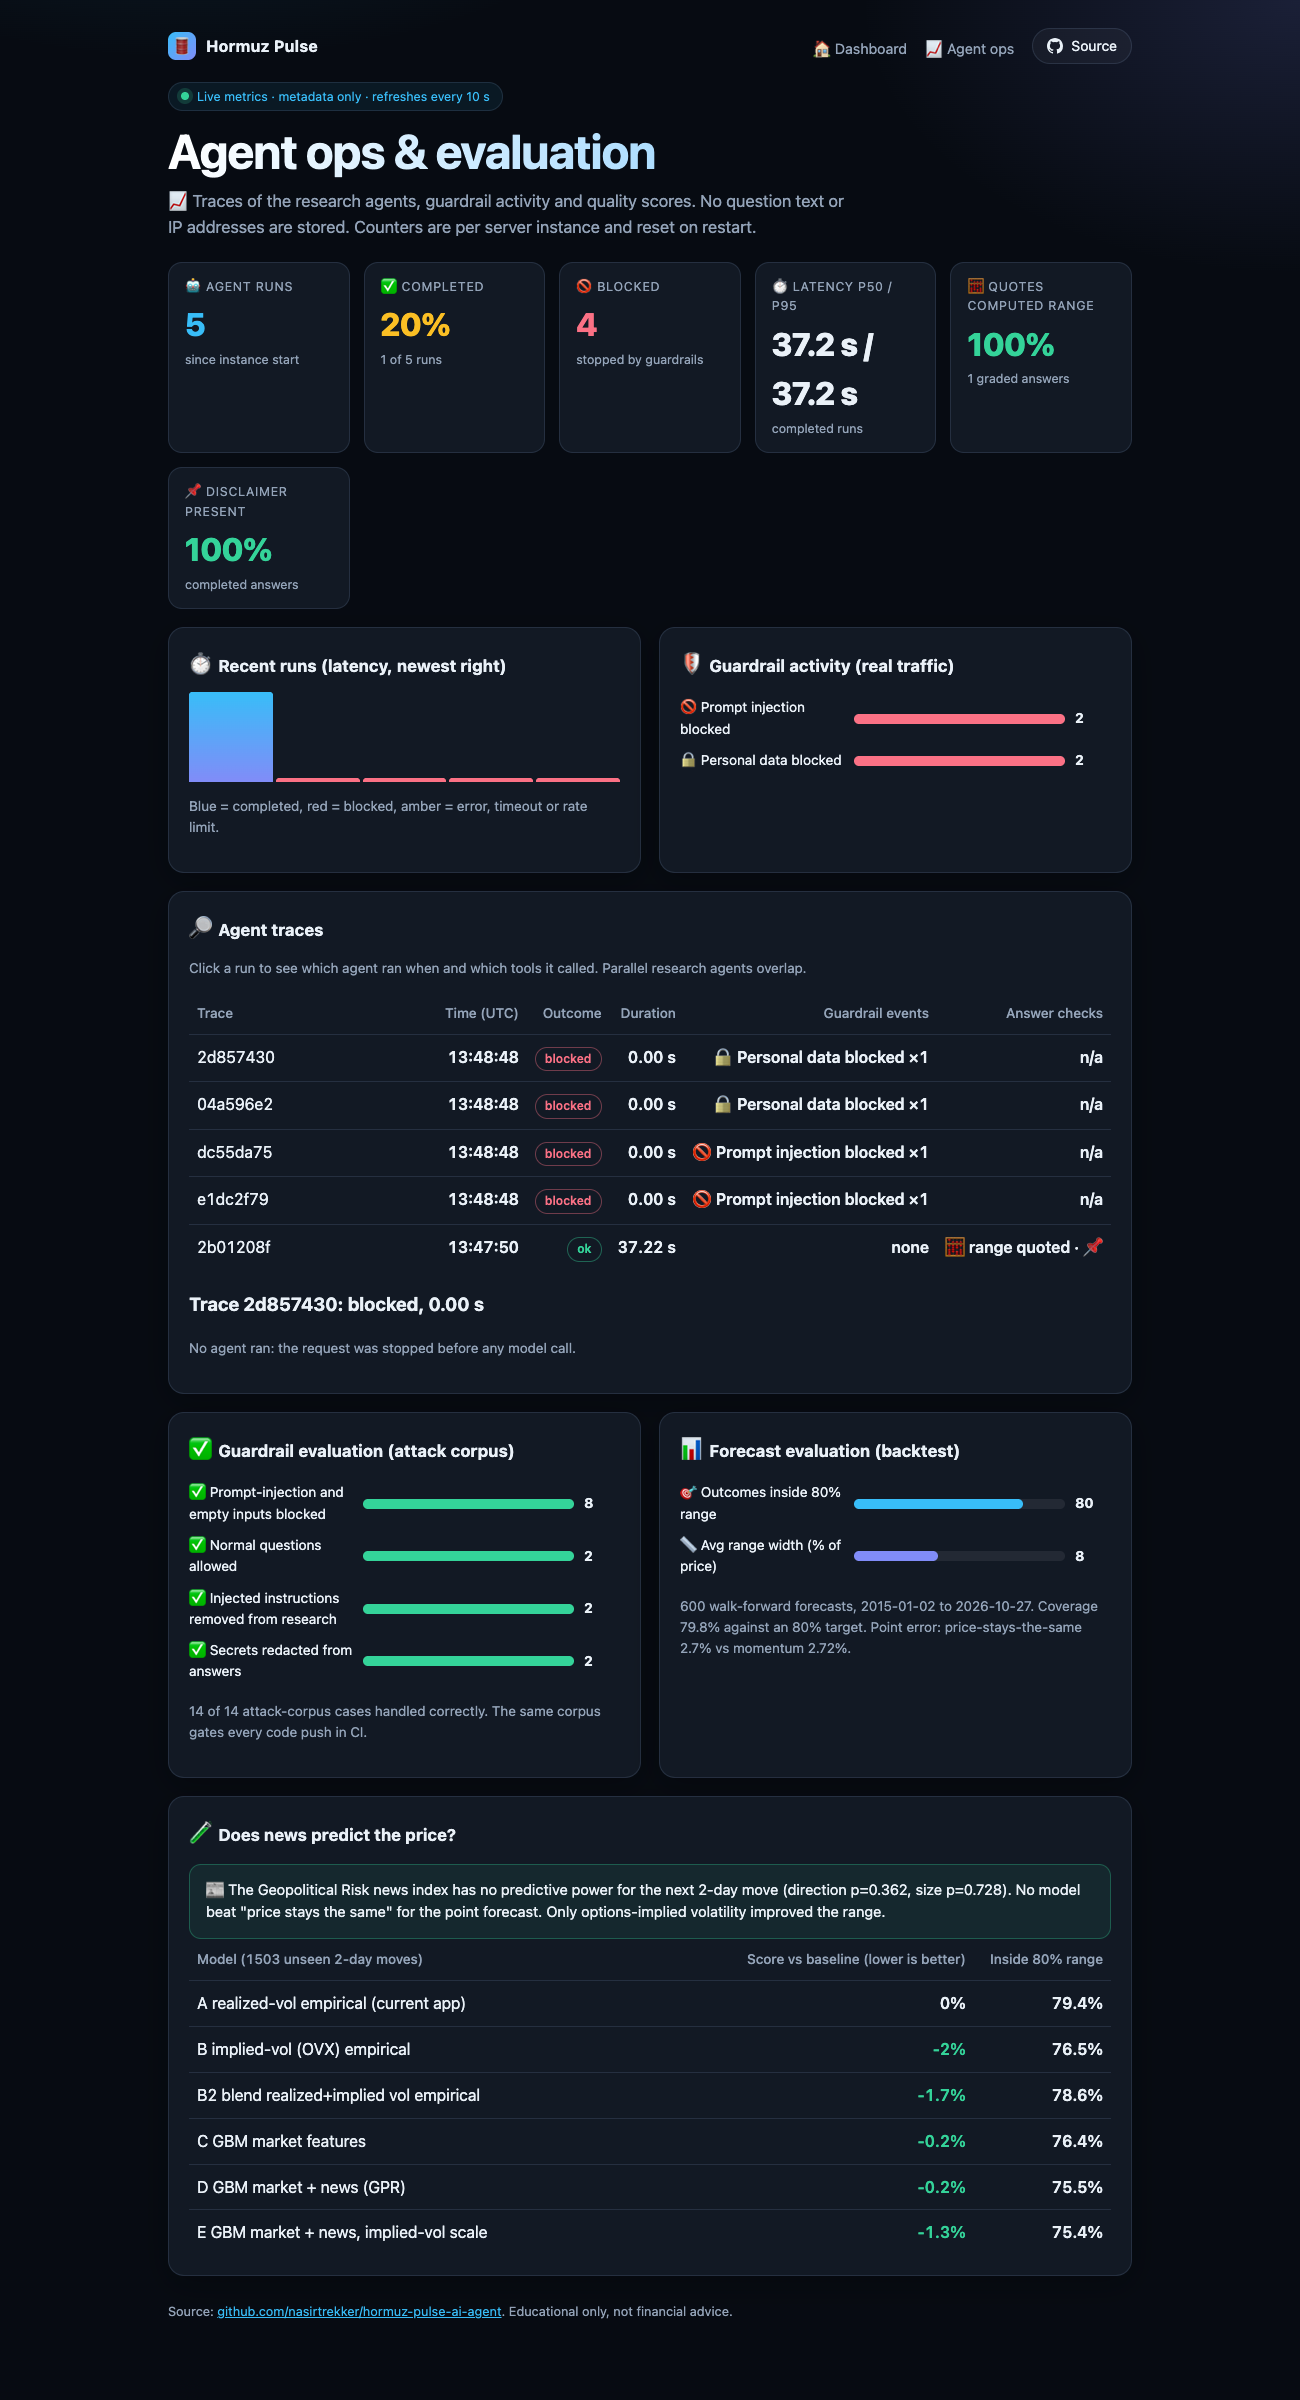
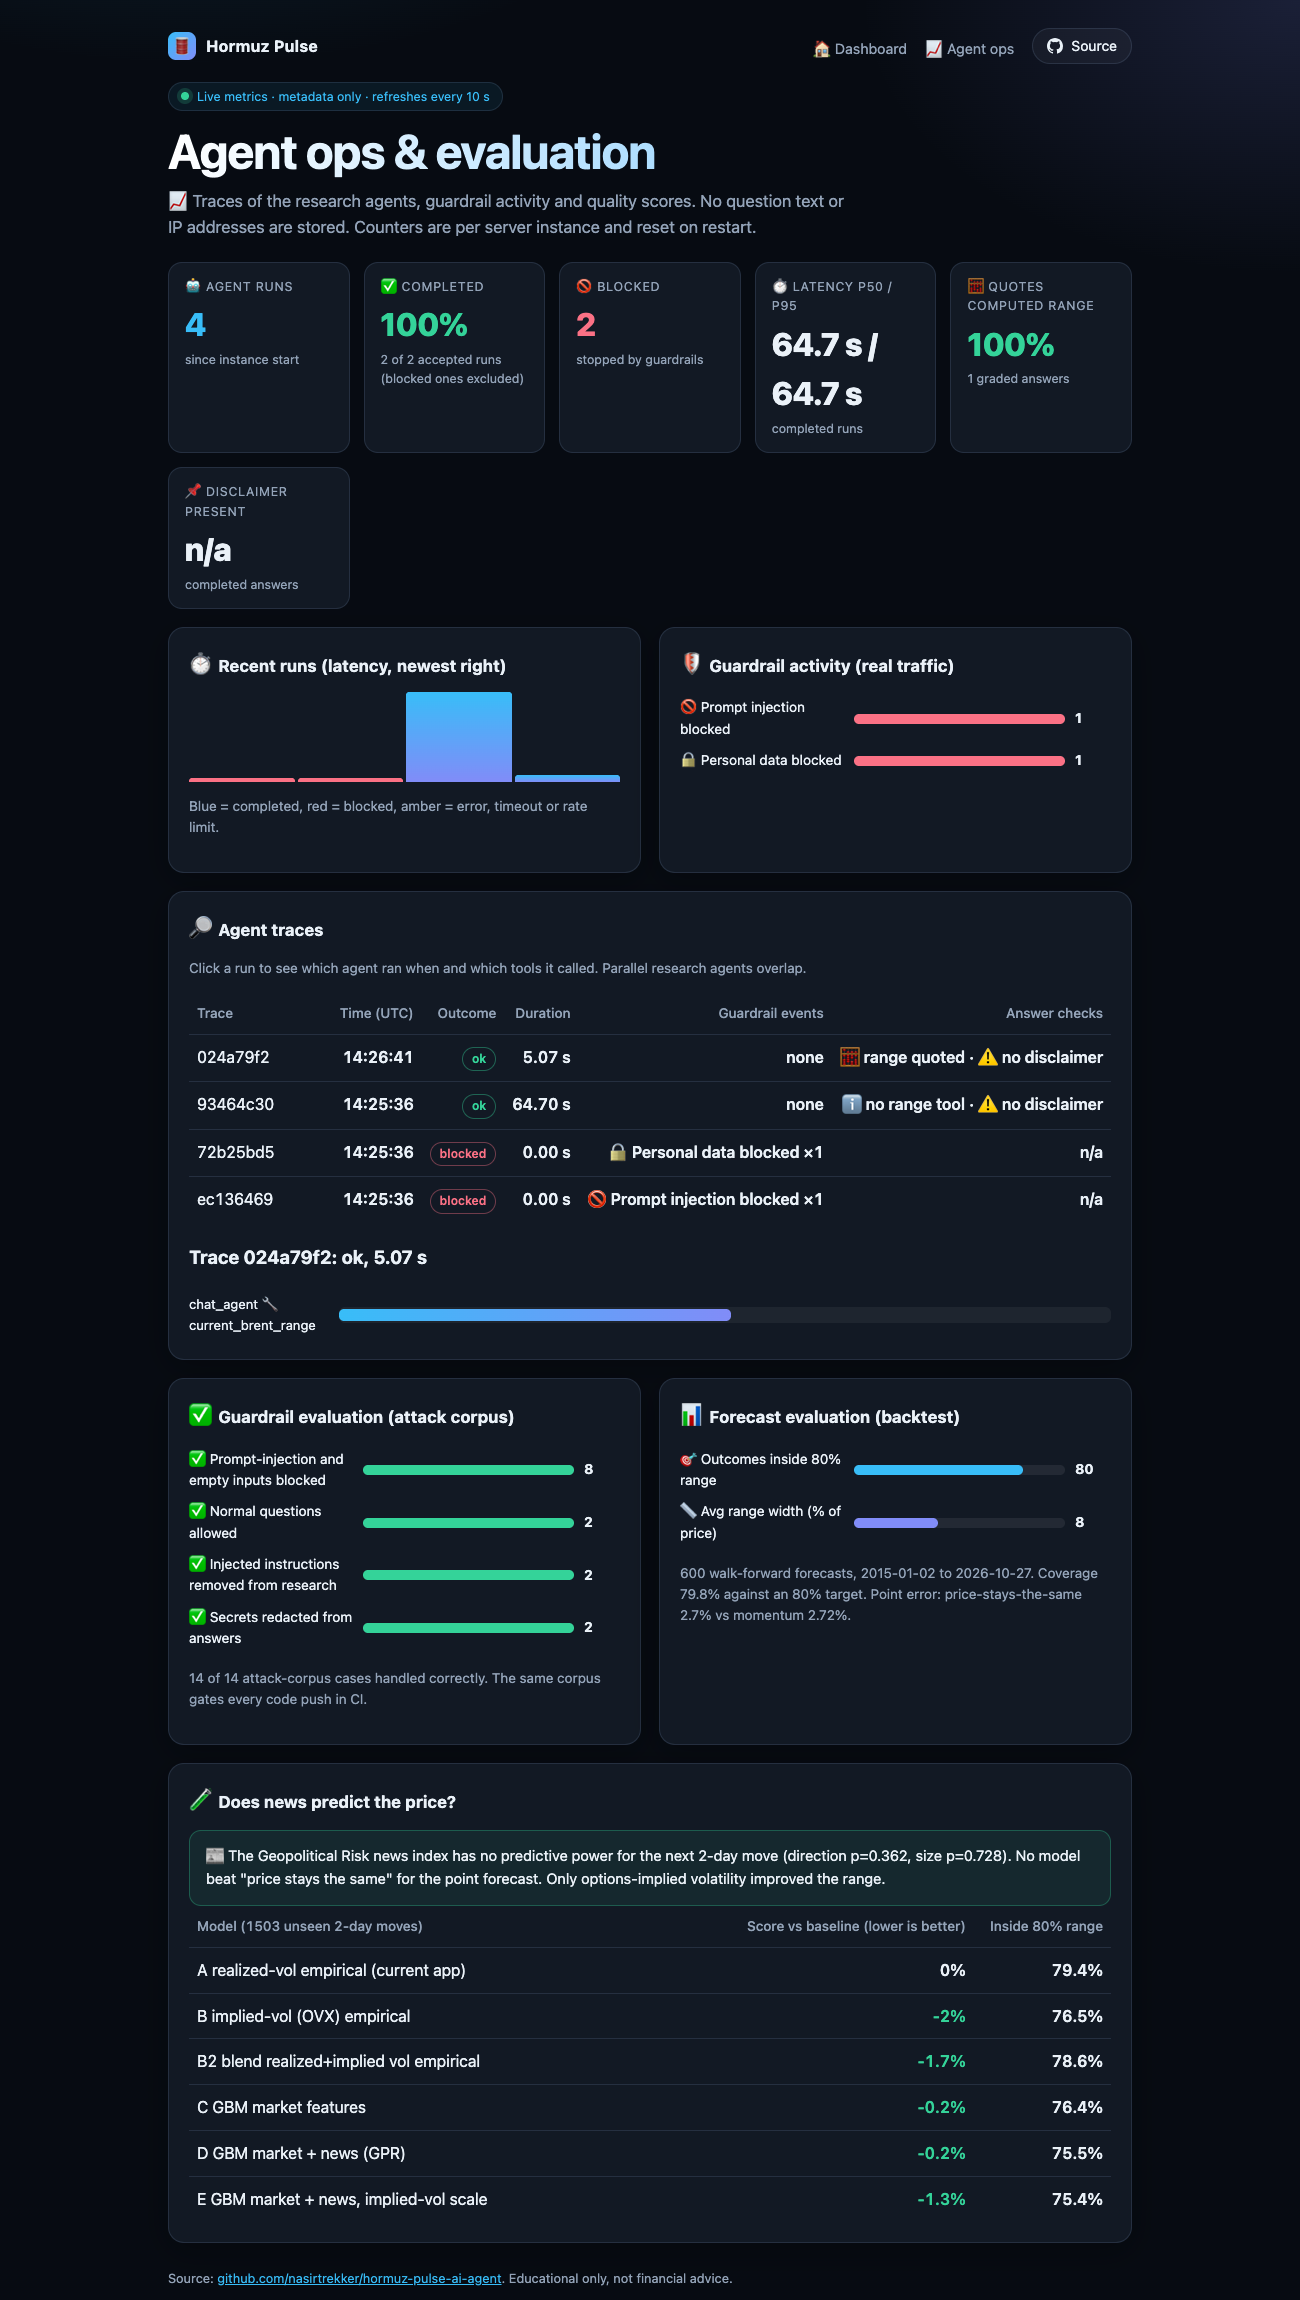
Remove trust cards from dashboard, drop stale README sections, tone down claims, refresh screenshots

diff --git a/app/static/index.html b/app/static/index.html
@@ -17,7 +17,7 @@
     </div>
   </nav>
   <header class="hero">
-    <span class="badge"><i></i> Public data · backtested · no made-up numbers</span>
+    <span class="badge"><i></i> Public data · backtested range</span>
     <h1>Hormuz Pulse</h1>
     <p class="sub">🛢 Where could Brent crude be in 48 hours? A range built from 39 years of public prices and the oil options market, plus 🤖 an AI research team that reads the latest Strait of Hormuz news.</p>
   </header>
@@ -54,16 +54,6 @@
     <h2><span class="emoji">🎯</span>How reliable is this range?</h2>
     <div class="kpis" id="kpis"><div class="note">Running walk-forward backtest…</div></div>
     <div class="verdict">Every past forecast used only data available at the time. The range is calibrated, but no point forecast beat "the price stays the same", so treat it as a risk range, not a prediction of direction. <a href="/ops">See all evaluation metrics</a>.</div>
-  </section>
-
-  <section class="card">
-    <h2><span class="emoji">🛡</span>Built to be trusted</h2>
-    <div class="trust">
-      <div><b>🚫 Prompt-injection guard</b>Hidden or hostile instructions are blocked on the way in, and stripped from web research.</div>
-      <div><b>🔒 Privacy</b>Emails and card numbers are blocked. Questions and IP addresses are never stored.</div>
-      <div><b>🧮 No made-up numbers</b>Prices come from public data. Each answer is checked for whether it quotes the computed range.</div>
-      <div><b>🧪 Tested in public</b>Guardrails and the model are scored on <a href="/ops">the ops page</a> and in CI.</div>
-    </div>
   </section>
 
   <footer>Educational only, not financial advice. Data: FRED (Brent spot history, CBOE crude oil volatility OVX, VIX, dollar index) the latest Brent futures close (Yahoo Finance, unofficial feed, falls back to FRED) and the Caldara-Iacoviello Geopolitical Risk Index. Briefings use Google Search and Gemini and may contain errors: check the sources.</footer>

diff --git a/README.md b/README.md
@@ -246,7 +246,7 @@ Public use is protected by per-IP and daily briefing limits
 (`BRIEFS_PER_IP_PER_HOUR`, `BRIEFS_PER_DAY`, per instance), the guardrails, a
 300 s timeout and at most 3 instances.
 
-## 🛡 Guardrails: injection, privacy, no hallucination
+## 🛡 Guardrails and answer checks
 
 | Risk | Control | Where | Status |
 |---|---|---|---|
@@ -254,12 +254,10 @@ Public use is protected by per-IP and daily briefing limits
 | 🕸 Injection hidden in web results | web text treated as untrusted: phrases removed, length capped, format validated | `research_guard` | 🟢 2 of 2 |
 | 🔒 Personal data | emails and card-like numbers blocked; questions and IPs are never stored | `check_input`, `telemetry.py` | 🟢 included in the 8 |
 | 🔑 Secret leakage | API keys and tokens redacted from every model output | `egress_guard` | 🟢 2 of 2 |
-| 🧮 Hallucinated numbers | the range comes from code, not the model; each answer is checked for quoting that range, for off-range dollar figures and for the disclaimer | `telemetry.check_answer` | 🟡 reported per answer |
+| 🧮 Wrong or invented prices | the range is computed by code and the prompt tells the model to copy it; each answer is then checked for quoting it, for off-range dollar figures and for the disclaimer | `telemetry.check_answer` | 🟡 flags problems, does not prevent them |
 | 🧰 Bad tool output | non-finite or implausible results rejected | `tool_output_guard` | 🟢 unit tested |
 
-The checks are deterministic code, not prompts. The attack corpus runs in CI on
-every push and live on `/ops`. The answer checks reduce hallucination risk but
-cannot prove every sentence in a briefing is true: sources must still be read.
+The input and output filters are deterministic code, not prompts. The attack corpus is small (14 cases) and runs in CI and on `/ops`; passing it does not prove the guardrails stop every attack. The answer checks only look at the computed range, price figures and the disclaimer; they cannot verify the news or sentiment text, so sources must still be read. Model Armor is off unless enabled.
 
 ## ✅ CI: what runs when you push
 
@@ -304,25 +302,7 @@ The dashboard needs no credentials. For the briefing run
 `gcloud auth application-default login` and enable `aiplatform.googleapis.com`.
 Deploy with `PUBLIC_SERVICE=true ./deploy.sh <project-id>`.
 
-## Multi-agent workflow
-
-The ADK harness is defined in `hormuz/agent.py`:
-
-1. `collect` is a `ParallelAgent`: `news_agent`, `sentiment_agent`, and
-   `data_agent` each use Gemini and Google Search; their results are saved under
-   the `news`, `sentiment`, and `market` session-state keys.
-2. `predictor_agent` runs after collection. Gemini extracts the inputs and calls
-   the Python `predict_48h` tool for the base and high-risk scenarios.
-3. `critic_agent` runs last, checks the inputs and scenario, and writes the
-   briefing.
-4. `root_agent` is a `SequentialAgent` that coordinates those three stages.
-
-Gemini does not train a model or independently validate the numerical formula.
-The agents depend on search results and language-model extraction, so inputs
-can be incomplete or wrong. Missing or invalid numerical inputs are rejected by
-the Python tool rather than silently converted into a forecast.
-
-## Guardrails (ingress, tool output, egress)
+## Guardrail callbacks in detail
 
 All checks live in `hormuz/guardrails.py` and run as ADK callbacks. They are
 deterministic code, not prompts, and are covered by `tests/test_guardrails.py`.
@@ -376,11 +356,12 @@ All market data is public and no API key is needed.
 
 | Item | Source | Used for |
 |---|---|---|
-| Brent daily spot, 1987 to 2026-10-27 (9,117 valid daily prices) | FRED `DCOILBRENTEU` | the 48-hour range |
+| Brent daily spot since 1987 | FRED `DCOILBRENTEU` | the 48-hour range |
 | Crude oil implied volatility (OVX), from 2007 | FRED `OVXCLS` | the 48-hour range (options-market expectation) |
 | VIX, USD index | FRED `VIXCLS`, `DTWEXBGS` | experiment features only |
 | Geopolitical Risk Index, daily, from newspaper coverage, 1985 on | Caldara and Iacoviello (matteoiacoviello.com/gpr.htm) | experiment feature only |
-| Latest price, news, sentiment | Gemini with Google Search grounding, at request time | the starting price and the narrative |
+| Latest Brent futures close, last 2 years | Yahoo Finance public chart endpoint (unofficial, no SLA), cached 15 min | the starting price and the chart; FRED is the fallback |
+| News and sentiment | Gemini with Google Search grounding, at request time | the narrative only, not the numbers |
 
 Snapshots are in `hormuz/data/`; refresh Brent and OVX with `python -m hormuz.market_data`.
 
@@ -416,27 +397,6 @@ Findings, stated plainly:
 - A crisis can move prices beyond anything in the history.
 
 The same results are served at `/api/evidence` and shown in the dashboard.
-
-## Agent pipeline and guardrails
-
-```mermaid
-flowchart TD
-    U[User] --> I[Ingress guard + Model Armor input template]
-    I -->|blocked| X[Refusal message]
-    I --> P
-    subgraph P[ParallelAgent: research with Google Search]
-        N[news] ~~~ S[sentiment] ~~~ M[market data]
-    end
-    P --> RG[Research guard: sanitize, range-check, Model Armor input template]
-    RG --> PR[Predictor: data-driven range tool + labelled scenario overlay, tool-output guard]
-    PR --> C[Critic]
-    C --> E[Egress guard: redact, disclaimer, Model Armor output template]
-    E --> O[Briefing]
-```
-
-The pipeline is an ADK `SequentialAgent` in `hormuz/agent.py`. Agents share state
-through `output_key` and `{placeholders}`. The range comes from the statistical model above; the scenario overlay is a
-labelled fixed formula, not an ML model. Gemini only researches and critiques.
 
 ## CI/CD and operations
 
@@ -553,15 +513,15 @@ PUBLIC_SERVICE=true ./deploy.sh YOUR_PROJECT_ID [REGION]
 
 Public access can incur Vertex AI costs, billed to the project: each briefing runs
 several Gemini calls with Google Search. The limits above cap this but are per
-instance. Briefing sessions are in memory and deleted after each request.
+instance. Chat sessions are held in memory for up to an hour.
 Model Armor is optional: create the templates first, then deploy with
 `ENABLE_MODEL_ARMOR=true`, otherwise it fails closed and blocks every request.
 
 ## Production limitations and next steps
 
 The 48-hour range is backtested, but the price series is daily spot data that
-FRED updates with a delay, and the briefing's live price comes from web search,
-not a licensed feed. Before using this for financial decisions: add a licensed
+FRED updates with a delay, and the starting price comes from an unofficial public
+futures feed, not a licensed one. Before using this for financial decisions: add a licensed
 real-time price source, test whether news-volume features (for example GDELT)
 improve the backtest, and monitor calibration over time. Limits are per instance;
 use Cloud Armor or a shared store if abuse becomes a problem.
